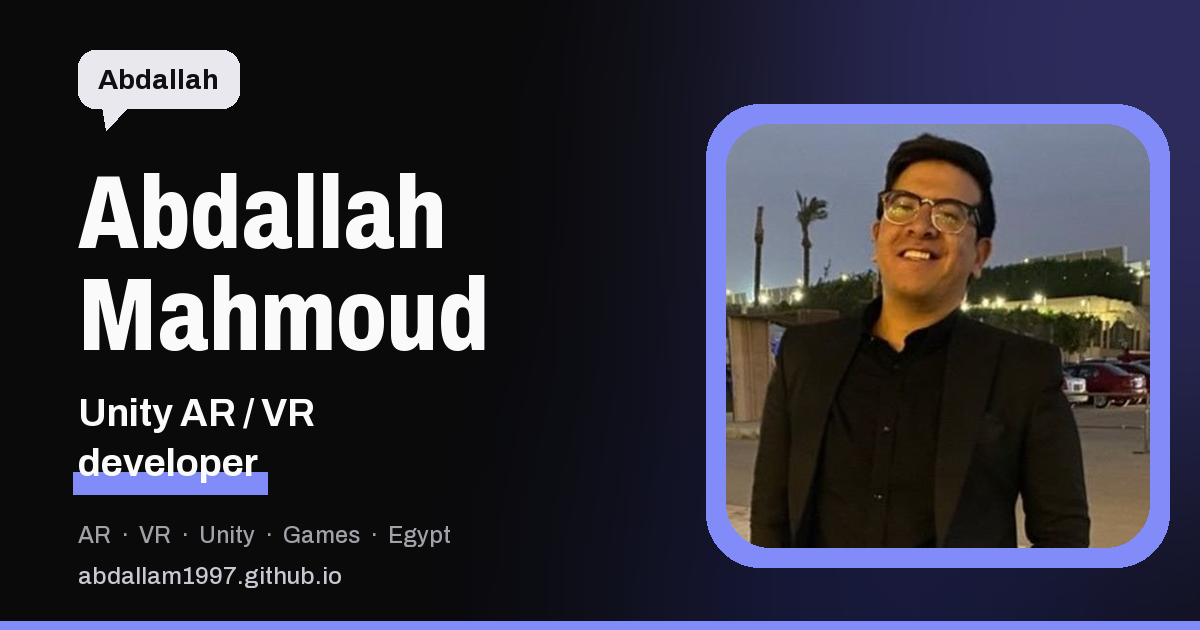
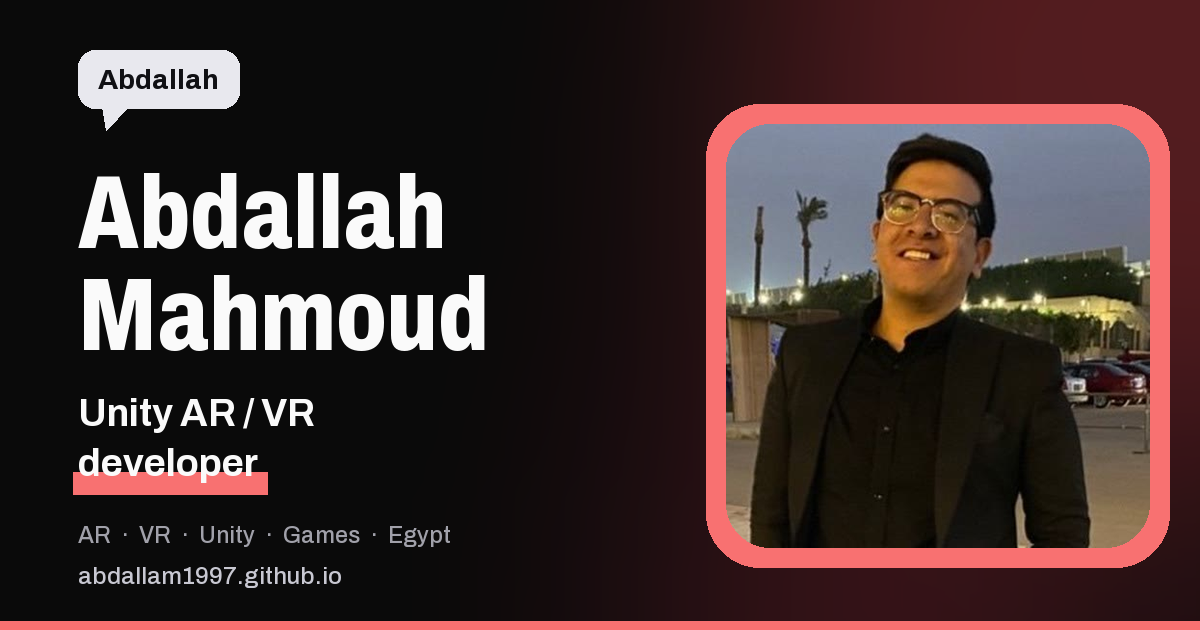
Make red the site's main accent
Red becomes the default pair (deep red on white, a lighter red on
black), with a red swatch added to the picker so it can be chosen back
explicitly. Indigo stays as one of the options, and the share card is
rebuilt to match.

Changed region(s): [[0.0, 0.0, 1.0, 1.0], [0.0617, 0.754, 0.2467, 0.7841]]

diff --git a/index.html b/index.html
@@ -59,7 +59,7 @@ if(a&&/^[a-z]+$/.test(a))document.documentElement.setAttribute('data-accent',a);
       <a href="#sites">Web</a>
       <a href="#contact">Contact</a>
     </nav>
-    <span class="pickwrap"><button type="button" class="palette" aria-label="Change accent colour" aria-expanded="false" aria-haspopup="true" aria-controls="swatches"><svg viewBox="0 0 24 24" aria-hidden="true" focusable="false"><path d="M12 3c-4.97 0-9 4.03-9 9s4.03 9 9 9c.83 0 1.5-.67 1.5-1.5 0-.39-.15-.74-.39-1.01-.23-.26-.38-.61-.38-.99 0-.83.67-1.5 1.5-1.5H16c2.76 0 5-2.24 5-5 0-4.42-4.03-8-9-8zm-5.5 9a1.5 1.5 0 1 1 0-3 1.5 1.5 0 0 1 0 3zm3-4a1.5 1.5 0 1 1 0-3 1.5 1.5 0 0 1 0 3zm5 0a1.5 1.5 0 1 1 0-3 1.5 1.5 0 0 1 0 3zm3 4a1.5 1.5 0 1 1 0-3 1.5 1.5 0 0 1 0 3z"/></svg></button><div class="swatches" id="swatches" role="group" aria-label="Accent colour"><button type="button" data-accent="indigo" style="--sw:#4F46E5" aria-pressed="false" aria-label="Indigo" title="Indigo"></button><button type="button" data-accent="teal" style="--sw:#0D9488" aria-pressed="false" aria-label="Teal" title="Teal"></button><button type="button" data-accent="emerald" style="--sw:#047857" aria-pressed="false" aria-label="Emerald" title="Emerald"></button><button type="button" data-accent="amber" style="--sw:#B45309" aria-pressed="false" aria-label="Amber" title="Amber"></button><button type="button" data-accent="rose" style="--sw:#BE123C" aria-pressed="false" aria-label="Rose" title="Rose"></button><button type="button" data-accent="sky" style="--sw:#0369A1" aria-pressed="false" aria-label="Sky" title="Sky"></button></div></span>
+    <span class="pickwrap"><button type="button" class="palette" aria-label="Change accent colour" aria-expanded="false" aria-haspopup="true" aria-controls="swatches"><svg viewBox="0 0 24 24" aria-hidden="true" focusable="false"><path d="M12 3c-4.97 0-9 4.03-9 9s4.03 9 9 9c.83 0 1.5-.67 1.5-1.5 0-.39-.15-.74-.39-1.01-.23-.26-.38-.61-.38-.99 0-.83.67-1.5 1.5-1.5H16c2.76 0 5-2.24 5-5 0-4.42-4.03-8-9-8zm-5.5 9a1.5 1.5 0 1 1 0-3 1.5 1.5 0 0 1 0 3zm3-4a1.5 1.5 0 1 1 0-3 1.5 1.5 0 0 1 0 3zm5 0a1.5 1.5 0 1 1 0-3 1.5 1.5 0 0 1 0 3zm3 4a1.5 1.5 0 1 1 0-3 1.5 1.5 0 0 1 0 3z"/></svg></button><div class="swatches" id="swatches" role="group" aria-label="Accent colour"><button type="button" data-accent="red" style="--sw:#C01526" aria-pressed="false" aria-label="Red" title="Red"></button><button type="button" data-accent="indigo" style="--sw:#4F46E5" aria-pressed="false" aria-label="Indigo" title="Indigo"></button><button type="button" data-accent="teal" style="--sw:#0D9488" aria-pressed="false" aria-label="Teal" title="Teal"></button><button type="button" data-accent="emerald" style="--sw:#047857" aria-pressed="false" aria-label="Emerald" title="Emerald"></button><button type="button" data-accent="amber" style="--sw:#B45309" aria-pressed="false" aria-label="Amber" title="Amber"></button><button type="button" data-accent="rose" style="--sw:#BE123C" aria-pressed="false" aria-label="Rose" title="Rose"></button><button type="button" data-accent="sky" style="--sw:#0369A1" aria-pressed="false" aria-label="Sky" title="Sky"></button></div></span>
     <button type="button" class="theme" aria-label="Switch to dark theme"><svg class="i-moon" viewBox="0 0 24 24" aria-hidden="true" focusable="false"><path d="M12 3c-4.97 0-9 4.03-9 9s4.03 9 9 9 9-4.03 9-9c0-.46-.04-.92-.1-1.36-.98 1.37-2.58 2.26-4.4 2.26-2.98 0-5.4-2.42-5.4-5.4 0-1.81.89-3.42 2.26-4.4-.44-.06-.9-.1-1.36-.1z"/></svg><span class="lab lab-light">Dark</span><svg class="i-sun" viewBox="0 0 24 24" aria-hidden="true" focusable="false"><path d="M12 7c-2.76 0-5 2.24-5 5s2.24 5 5 5 5-2.24 5-5-2.24-5-5-5zM2 13h2c.55 0 1-.45 1-1s-.45-1-1-1H2c-.55 0-1 .45-1 1s.45 1 1 1zm18 0h2c.55 0 1-.45 1-1s-.45-1-1-1h-2c-.55 0-1 .45-1 1s.45 1 1 1zM11 2v2c0 .55.45 1 1 1s1-.45 1-1V2c0-.55-.45-1-1-1s-1 .45-1 1zm0 18v2c0 .55.45 1 1 1s1-.45 1-1v-2c0-.55-.45-1-1-1s-1 .45-1 1zM5.99 4.58a.996.996 0 00-1.41 0 .996.996 0 000 1.41l1.06 1.06c.39.39 1.03.39 1.41 0s.39-1.03 0-1.41L5.99 4.58zm12.37 12.37a.996.996 0 00-1.41 0 .996.996 0 000 1.41l1.06 1.06c.39.39 1.03.39 1.41 0a.996.996 0 000-1.41l-1.06-1.06zm1.06-10.96a.996.996 0 000-1.41.996.996 0 00-1.41 0l-1.06 1.06c-.39.39-.39 1.03 0 1.41s1.03.39 1.41 0l1.06-1.06zM7.05 18.36a.996.996 0 000-1.41.996.996 0 00-1.41 0l-1.06 1.06c-.39.39-.39 1.03 0 1.41s1.03.39 1.41 0l1.06-1.06z"/></svg><span class="lab lab-dark">Light</span></button>
   </div>
 </header>
@@ -1278,7 +1278,7 @@ if(a&&/^[a-z]+$/.test(a))document.documentElement.setAttribute('data-accent',a);
   if (palBtn && swatches) {
     var marks = swatches.querySelectorAll('button');
     var markCurrent = function(){
-      var now = document.documentElement.getAttribute('data-accent') || 'indigo';
+      var now = document.documentElement.getAttribute('data-accent') || 'red';
       each(marks, function(m){
         m.setAttribute('aria-pressed', m.getAttribute('data-accent') === now ? 'true' : 'false');
       });

diff --git a/styles.css b/styles.css
@@ -4,8 +4,8 @@
 @property --ground{syntax:"<color>";inherits:true;initial-value:#FFFFFF}
 @property --ground-2{syntax:"<color>";inherits:true;initial-value:#F4F4F5}
 @property --ink{syntax:"<color>";inherits:true;initial-value:#0A0A0A}
-@property --teal{syntax:"<color>";inherits:true;initial-value:#4F46E5}
-@property --clay{syntax:"<color>";inherits:true;initial-value:#7C3AED}
+@property --teal{syntax:"<color>";inherits:true;initial-value:#C01526}
+@property --clay{syntax:"<color>";inherits:true;initial-value:#9F1239}
 @property --mute{syntax:"<color>";inherits:true;initial-value:#5F5F69}
 @property --screen{syntax:"<color>";inherits:true;initial-value:#0A0A0A}
 @property --line{syntax:"<color>";inherits:true;initial-value:#E4E4E7}
@@ -17,8 +17,8 @@
   --ground:#FFFFFF;
   --ground-2:#F4F4F5;
   --ink:#0A0A0A;
-  --teal:#4F46E5;          /* accent */
-  --clay:#7C3AED;          /* accent 2 */
+  --teal:#C01526;          /* accent */
+  --clay:#9F1239;          /* accent 2 */
   --mute:#5F5F69;
   --screen:#0A0A0A;
   --line:#E4E4E7;
@@ -42,8 +42,8 @@
     --ground:#0A0A0A;
     --ground-2:#141416;
     --ink:#FAFAFA;
-    --teal:#818CF8;
-    --clay:#A78BFA;
+    --teal:#F87171;
+    --clay:#FDA4AF;
     --mute:#A1A1AA;
     --screen:#000000;
     --line:#26262B;
@@ -57,8 +57,8 @@
   --ground:#0A0A0A;
   --ground-2:#141416;
   --ink:#FAFAFA;
-  --teal:#818CF8;
-  --clay:#A78BFA;
+  --teal:#F87171;
+  --clay:#FDA4AF;
   --mute:#A1A1AA;
   --screen:#000000;
   --line:#26262B;
@@ -329,6 +329,9 @@ section[id],article[id]{scroll-margin-top:78px}
 /* ---------- accent palettes ---------- */
 /* Each palette carries a light and a dark pair: a dark page needs a
    lighter accent to hold the same weight against its background. */
+:root[data-accent="red"]{--teal:#C01526;--clay:#9F1239}
+:root[data-theme="dark"][data-accent="red"]{--teal:#F87171;--clay:#FDA4AF}
+@media (prefers-color-scheme:dark){:root:not([data-theme="light"])[data-accent="red"]{--teal:#F87171;--clay:#FDA4AF}}
 :root[data-accent="indigo"]{--teal:#4F46E5;--clay:#7C3AED}
 :root[data-theme="dark"][data-accent="indigo"]{--teal:#818CF8;--clay:#A78BFA}
 @media (prefers-color-scheme:dark){:root:not([data-theme="light"])[data-accent="indigo"]{--teal:#818CF8;--clay:#A78BFA}}
